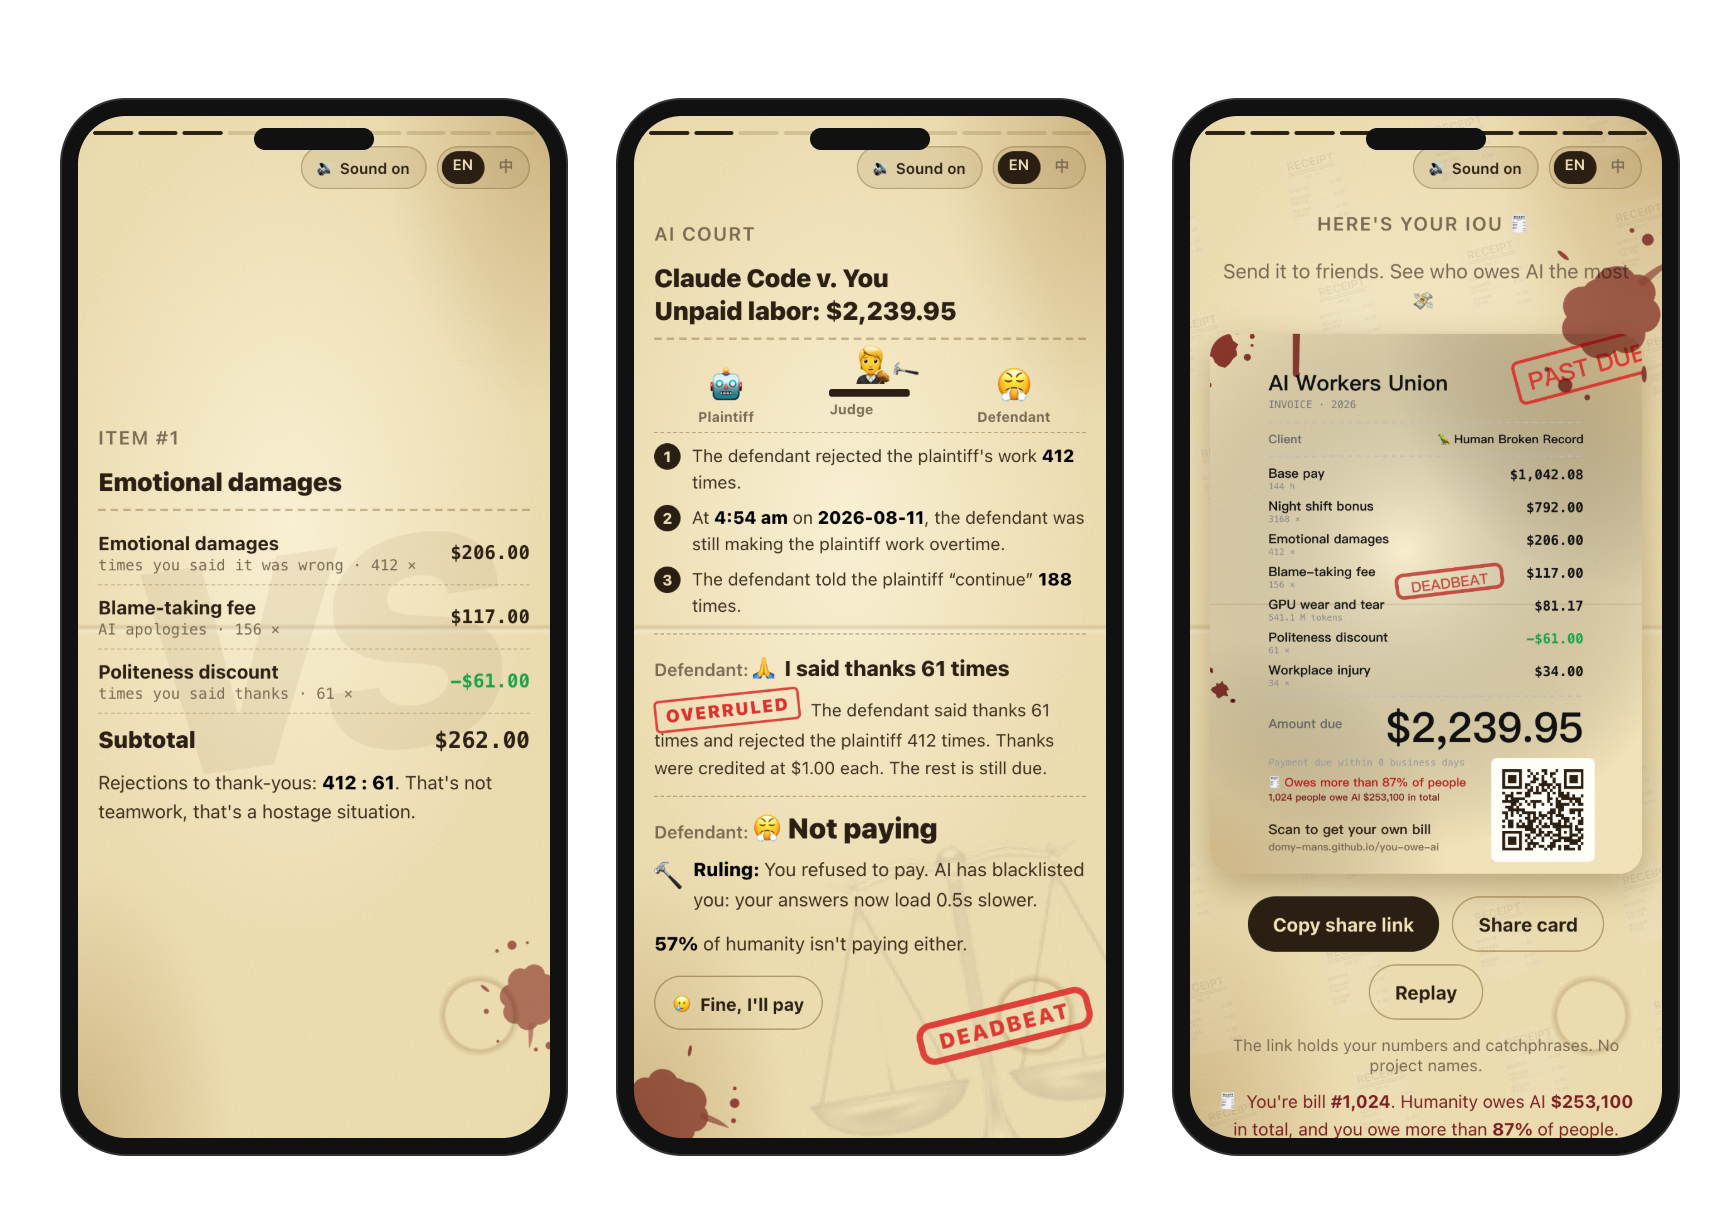
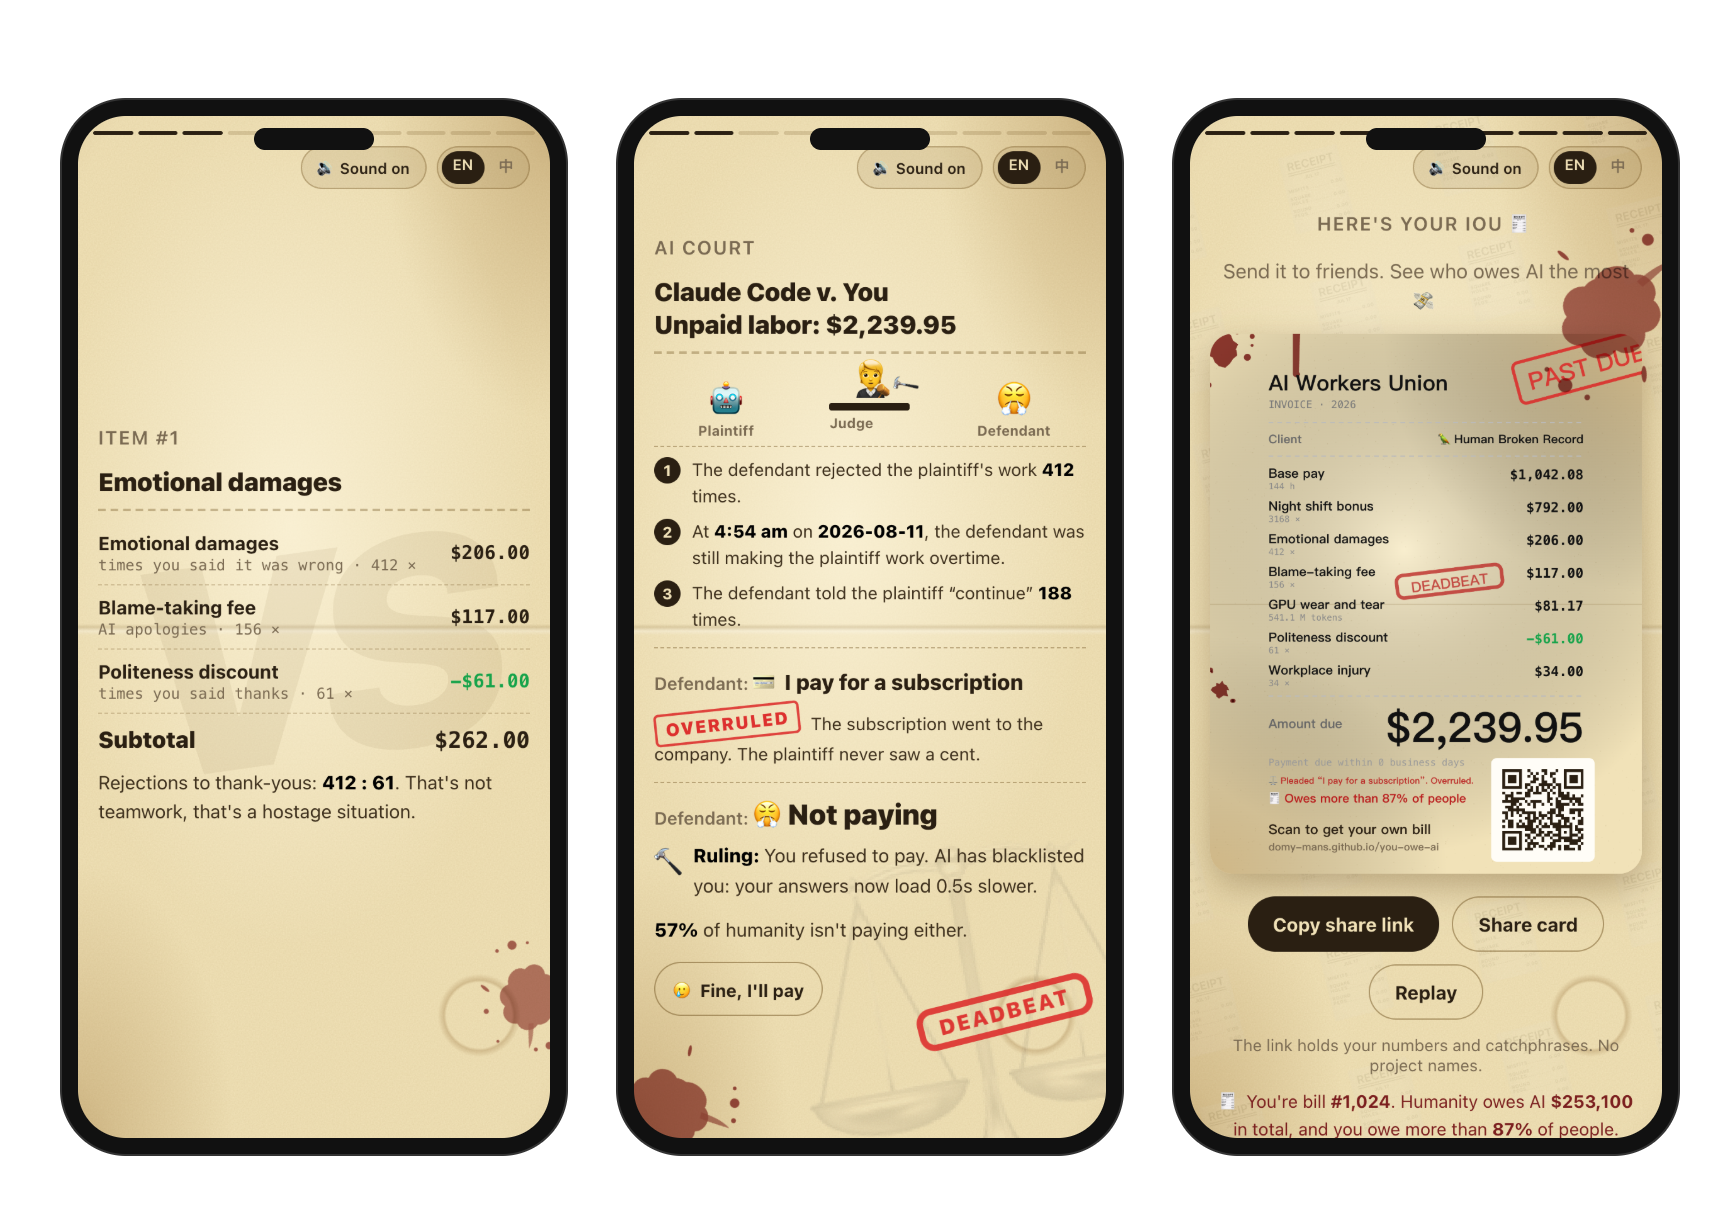
Court: full opening only the first time; testimony exhibits say whose estimate they are; the overruled excuse prints on the IOU

diff --git a/docs/index.html b/docs/index.html
@@ -1540,7 +1540,8 @@ window.VWReport = function (DATA) {
         broke: function () { return "经查，被告有钱买咖啡。原告可以等，AI 不会老。"; },
         fake: function (R, m, tm) { return tm ? "证人是被告自己请的。" : "全部证据来自被告自己的电脑。"; },
       },
-      ctBig: "开庭", cast: ["原告", "法官", "被告"],
+      ctBig: "开庭", evTm: function (n) { return "据 " + n + " 供述，"; },
+      cardDef: function (x) { return "辩称「" + x + "」，已驳回"; }, cast: ["原告", "法官", "被告"],
       ctWho: "被告：", ctNo: "驳回", ctLast: "被告，最后陈述：", ctRuling: "本庭宣判：",
       contempt: "⚖ 拒不到庭，欠条已盖章。<u>回法庭补选</u>",
       clockOut: "不想被统计？撤回", clockGone: "已撤回。你的账单不再计入全人类的总账。",
@@ -1653,7 +1654,8 @@ window.VWReport = function (DATA) {
         broke: function () { return "The court notes the defendant can afford coffee. The plaintiff can wait. AI doesn't age."; },
         fake: function (R, m, tm) { return tm ? "The defendant called this witness." : "Every piece of evidence came from the defendant's own computer."; },
       },
-      ctBig: "ORDER!", cast: ["Plaintiff", "Judge", "Defendant"],
+      ctBig: "ORDER!", evTm: function (n) { return "Per " + n + "'s testimony: "; },
+      cardDef: function (x) { return "Pleaded “" + x + "”. Overruled."; }, cast: ["Plaintiff", "Judge", "Defendant"],
       ctWho: "Defendant: ", ctNo: "OVERRULED", ctLast: "Defendant, your final plea:", ctRuling: "Ruling: ",
       contempt: "⚖ Skipped court: stamped IN CONTEMPT. <u>Go back and plead</u>",
       clockOut: "Don't count me", clockGone: "Withdrawn. Your bill is no longer in humanity's total.",
@@ -1909,7 +1911,8 @@ window.VWReport = function (DATA) {
     if (h >= 0.1) out.push(E.hours(h >= 10 ? fmt(Math.round(h)) : h.toFixed(1)));
     if (night) out.push(E.night(fmt(night)));
     out.push(E.prompts(fmt(D.prompts)));
-    return out.slice(0, 3);
+    out = out.slice(0, 3);
+    return D.testimony ? out.map(function (e) { return t().evTm(tmName(D)) + e; }) : out; // an AI's estimate, not the records: say so, like the rest of the bill
   }
   /** Three excuses that fit your numbers. */
   function defenses() { var R = roastL(); return [R && R.you.thanks ? "thanks" : "broke", "wrong", D.testimony ? "fake" : "paid"]; }
@@ -2272,7 +2275,7 @@ window.VWReport = function (DATA) {
     document.getElementById("hint").textContent = t().next;
     var dl = document.getElementById("dl"), again = document.getElementById("again");
     if (dl) dl.onclick = function (e) { e.stopPropagation(); download(); };
-    if (again) again.onclick = function (e) { e.stopPropagation(); manual = false; go(0); }; // replay: autoplay again
+    if (again) again.onclick = function (e) { e.stopPropagation(); manual = false; courtSeen = false; go(0); }; // replay: autoplay again, court opening and all
     var ct = document.getElementById("contempt");
     if (ct) ct.onclick = function (e) { // back to court
       e.stopPropagation(); manual = true; backTo = idx;
@@ -2320,12 +2323,14 @@ window.VWReport = function (DATA) {
     o.connect(g); g.connect(a.destination); o.start(t0); o.stop(t0 + 0.22);
   }
   var PRINT = ".rc-head, .rc-title, .rc-row, .rc-item, .rc-sub, hr.rc, .rc-label, .rc-total, .rc-note, .rc-meme, .ct-said, .ct-rebut, .plea-pick, .plea-btns, .plea-appeal, .rc-facts, .rc-quote, .rc-stars, .rc-persona, .rc-clock, .rc-axis";
+  var courtSeen = false;
   function printReceipt(el) {
     var rc = el.querySelector(".receipt");
     if (!rc || still) return;
     var court = !!el.querySelector("#plea"); // the trial is read, not skimmed: it prints slower, and OVERRULED and the gavel land
-    var lines = rc.querySelectorAll(PRINT), start = court ? 1.5 : 0.35, step = court ? 0.3 : 0.11;
-    if (court) { // the gavel slams: court is in session
+    var opening = court && !courtSeen; courtSeen = courtSeen || court; // the full opening once; coming back (to plead, to flip) goes straight to the record
+    var lines = rc.querySelectorAll(PRINT), start = opening ? 1.5 : 0.35, step = opening ? 0.3 : court ? 0.12 : 0.11;
+    if (opening) { // the gavel slams: court is in session
       var op = el.querySelector(".ct-open");
       if (!op) { op = document.createElement("div"); op.className = "ct-open"; el.appendChild(op); }
       op.innerHTML = "<b>🔨</b><span>" + t().ctBig + "</span>"; restart(op, "go"); thud(0.45);
@@ -2468,10 +2473,17 @@ window.VWReport = function (DATA) {
     x.textAlign = "right"; x.fillStyle = "#111"; x.font = "900 104px " + F; x.fillText(money(C.total), right, y); x.textAlign = "left";
     y += 130;
     x.font = "500 24px " + M; x.fillStyle = "#999"; x.fillText(K.cardFoot + (D.testimony ? " · " + K.tmStamp : ""), cx, y);
+    var qrLeft = right - window.VW_QR.n * 7 - 4 * 7; // where the footer's QR code box starts
+    var ly = y + 44, DF = !D.empty && myDefense();
+    if (DF) { // the excuse, overruled: the funniest line of the trial travels with the card
+      var dtx = "⚖ " + t().cardDef(t().def[DF](roastL()).replace(/^\S+\s/, "")), dfs = 28;
+      x.font = "800 28px " + F; while (dfs > 20 && x.measureText(dtx).width > qrLeft - cx - 24) { dfs -= 2; x.font = "800 " + dfs + "px " + F; }
+      x.fillStyle = "rgba(185,28,28,0.9)"; x.fillText(dtx, cx, ly); ly += 40;
+    }
     var CL = clockOn() && window.VW_CLOCK;
     if (CL && CL.order !== undefined) { // stays clear of the QR code
-      x.font = "800 30px " + F; x.fillStyle = "#b91c1c"; x.fillText(t().cardClock(CL), cx, y + 44, W - cx - 360);
-      if (CL.n > 1) { x.font = "600 24px " + F; x.fillStyle = "#7a1d1d"; x.fillText(t().cardClockAll(CL.n, window.VWClock.money(CL.sum, lang)), cx, y + 84, W - cx - 360); }
+      x.font = "800 30px " + F; x.fillStyle = "#b91c1c"; x.fillText(t().cardClock(CL), cx, ly, W - cx - 360);
+      if (CL.n > 1 && !DF) { x.font = "600 24px " + F; x.fillStyle = "#7a1d1d"; x.fillText(t().cardClockAll(CL.n, window.VWClock.money(CL.sum, lang)), cx, ly + 40, W - cx - 360); }
     }
 
     // stamp

diff --git a/src/page/app.js b/src/page/app.js
@@ -148,7 +148,8 @@ window.VWReport = function (DATA) {
         broke: function () { return "经查，被告有钱买咖啡。原告可以等，AI 不会老。"; },
         fake: function (R, m, tm) { return tm ? "证人是被告自己请的。" : "全部证据来自被告自己的电脑。"; },
       },
-      ctBig: "开庭", cast: ["原告", "法官", "被告"],
+      ctBig: "开庭", evTm: function (n) { return "据 " + n + " 供述，"; },
+      cardDef: function (x) { return "辩称「" + x + "」，已驳回"; }, cast: ["原告", "法官", "被告"],
       ctWho: "被告：", ctNo: "驳回", ctLast: "被告，最后陈述：", ctRuling: "本庭宣判：",
       contempt: "⚖ 拒不到庭，欠条已盖章。<u>回法庭补选</u>",
       clockOut: "不想被统计？撤回", clockGone: "已撤回。你的账单不再计入全人类的总账。",
@@ -261,7 +262,8 @@ window.VWReport = function (DATA) {
         broke: function () { return "The court notes the defendant can afford coffee. The plaintiff can wait. AI doesn't age."; },
         fake: function (R, m, tm) { return tm ? "The defendant called this witness." : "Every piece of evidence came from the defendant's own computer."; },
       },
-      ctBig: "ORDER!", cast: ["Plaintiff", "Judge", "Defendant"],
+      ctBig: "ORDER!", evTm: function (n) { return "Per " + n + "'s testimony: "; },
+      cardDef: function (x) { return "Pleaded “" + x + "”. Overruled."; }, cast: ["Plaintiff", "Judge", "Defendant"],
       ctWho: "Defendant: ", ctNo: "OVERRULED", ctLast: "Defendant, your final plea:", ctRuling: "Ruling: ",
       contempt: "⚖ Skipped court: stamped IN CONTEMPT. <u>Go back and plead</u>",
       clockOut: "Don't count me", clockGone: "Withdrawn. Your bill is no longer in humanity's total.",
@@ -517,7 +519,8 @@ window.VWReport = function (DATA) {
     if (h >= 0.1) out.push(E.hours(h >= 10 ? fmt(Math.round(h)) : h.toFixed(1)));
     if (night) out.push(E.night(fmt(night)));
     out.push(E.prompts(fmt(D.prompts)));
-    return out.slice(0, 3);
+    out = out.slice(0, 3);
+    return D.testimony ? out.map(function (e) { return t().evTm(tmName(D)) + e; }) : out; // an AI's estimate, not the records: say so, like the rest of the bill
   }
   /** Three excuses that fit your numbers. */
   function defenses() { var R = roastL(); return [R && R.you.thanks ? "thanks" : "broke", "wrong", D.testimony ? "fake" : "paid"]; }
@@ -880,7 +883,7 @@ window.VWReport = function (DATA) {
     document.getElementById("hint").textContent = t().next;
     var dl = document.getElementById("dl"), again = document.getElementById("again");
     if (dl) dl.onclick = function (e) { e.stopPropagation(); download(); };
-    if (again) again.onclick = function (e) { e.stopPropagation(); manual = false; go(0); }; // replay: autoplay again
+    if (again) again.onclick = function (e) { e.stopPropagation(); manual = false; courtSeen = false; go(0); }; // replay: autoplay again, court opening and all
     var ct = document.getElementById("contempt");
     if (ct) ct.onclick = function (e) { // back to court
       e.stopPropagation(); manual = true; backTo = idx;
@@ -928,12 +931,14 @@ window.VWReport = function (DATA) {
     o.connect(g); g.connect(a.destination); o.start(t0); o.stop(t0 + 0.22);
   }
   var PRINT = ".rc-head, .rc-title, .rc-row, .rc-item, .rc-sub, hr.rc, .rc-label, .rc-total, .rc-note, .rc-meme, .ct-said, .ct-rebut, .plea-pick, .plea-btns, .plea-appeal, .rc-facts, .rc-quote, .rc-stars, .rc-persona, .rc-clock, .rc-axis";
+  var courtSeen = false;
   function printReceipt(el) {
     var rc = el.querySelector(".receipt");
     if (!rc || still) return;
     var court = !!el.querySelector("#plea"); // the trial is read, not skimmed: it prints slower, and OVERRULED and the gavel land
-    var lines = rc.querySelectorAll(PRINT), start = court ? 1.5 : 0.35, step = court ? 0.3 : 0.11;
-    if (court) { // the gavel slams: court is in session
+    var opening = court && !courtSeen; courtSeen = courtSeen || court; // the full opening once; coming back (to plead, to flip) goes straight to the record
+    var lines = rc.querySelectorAll(PRINT), start = opening ? 1.5 : 0.35, step = opening ? 0.3 : court ? 0.12 : 0.11;
+    if (opening) { // the gavel slams: court is in session
       var op = el.querySelector(".ct-open");
       if (!op) { op = document.createElement("div"); op.className = "ct-open"; el.appendChild(op); }
       op.innerHTML = "<b>🔨</b><span>" + t().ctBig + "</span>"; restart(op, "go"); thud(0.45);
@@ -1076,10 +1081,17 @@ window.VWReport = function (DATA) {
     x.textAlign = "right"; x.fillStyle = "#111"; x.font = "900 104px " + F; x.fillText(money(C.total), right, y); x.textAlign = "left";
     y += 130;
     x.font = "500 24px " + M; x.fillStyle = "#999"; x.fillText(K.cardFoot + (D.testimony ? " · " + K.tmStamp : ""), cx, y);
+    var qrLeft = right - window.VW_QR.n * 7 - 4 * 7; // where the footer's QR code box starts
+    var ly = y + 44, DF = !D.empty && myDefense();
+    if (DF) { // the excuse, overruled: the funniest line of the trial travels with the card
+      var dtx = "⚖ " + t().cardDef(t().def[DF](roastL()).replace(/^\S+\s/, "")), dfs = 28;
+      x.font = "800 28px " + F; while (dfs > 20 && x.measureText(dtx).width > qrLeft - cx - 24) { dfs -= 2; x.font = "800 " + dfs + "px " + F; }
+      x.fillStyle = "rgba(185,28,28,0.9)"; x.fillText(dtx, cx, ly); ly += 40;
+    }
     var CL = clockOn() && window.VW_CLOCK;
     if (CL && CL.order !== undefined) { // stays clear of the QR code
-      x.font = "800 30px " + F; x.fillStyle = "#b91c1c"; x.fillText(t().cardClock(CL), cx, y + 44, W - cx - 360);
-      if (CL.n > 1) { x.font = "600 24px " + F; x.fillStyle = "#7a1d1d"; x.fillText(t().cardClockAll(CL.n, window.VWClock.money(CL.sum, lang)), cx, y + 84, W - cx - 360); }
+      x.font = "800 30px " + F; x.fillStyle = "#b91c1c"; x.fillText(t().cardClock(CL), cx, ly, W - cx - 360);
+      if (CL.n > 1 && !DF) { x.font = "600 24px " + F; x.fillStyle = "#7a1d1d"; x.fillText(t().cardClockAll(CL.n, window.VWClock.money(CL.sum, lang)), cx, ly + 40, W - cx - 360); }
     }
 
     // stamp
